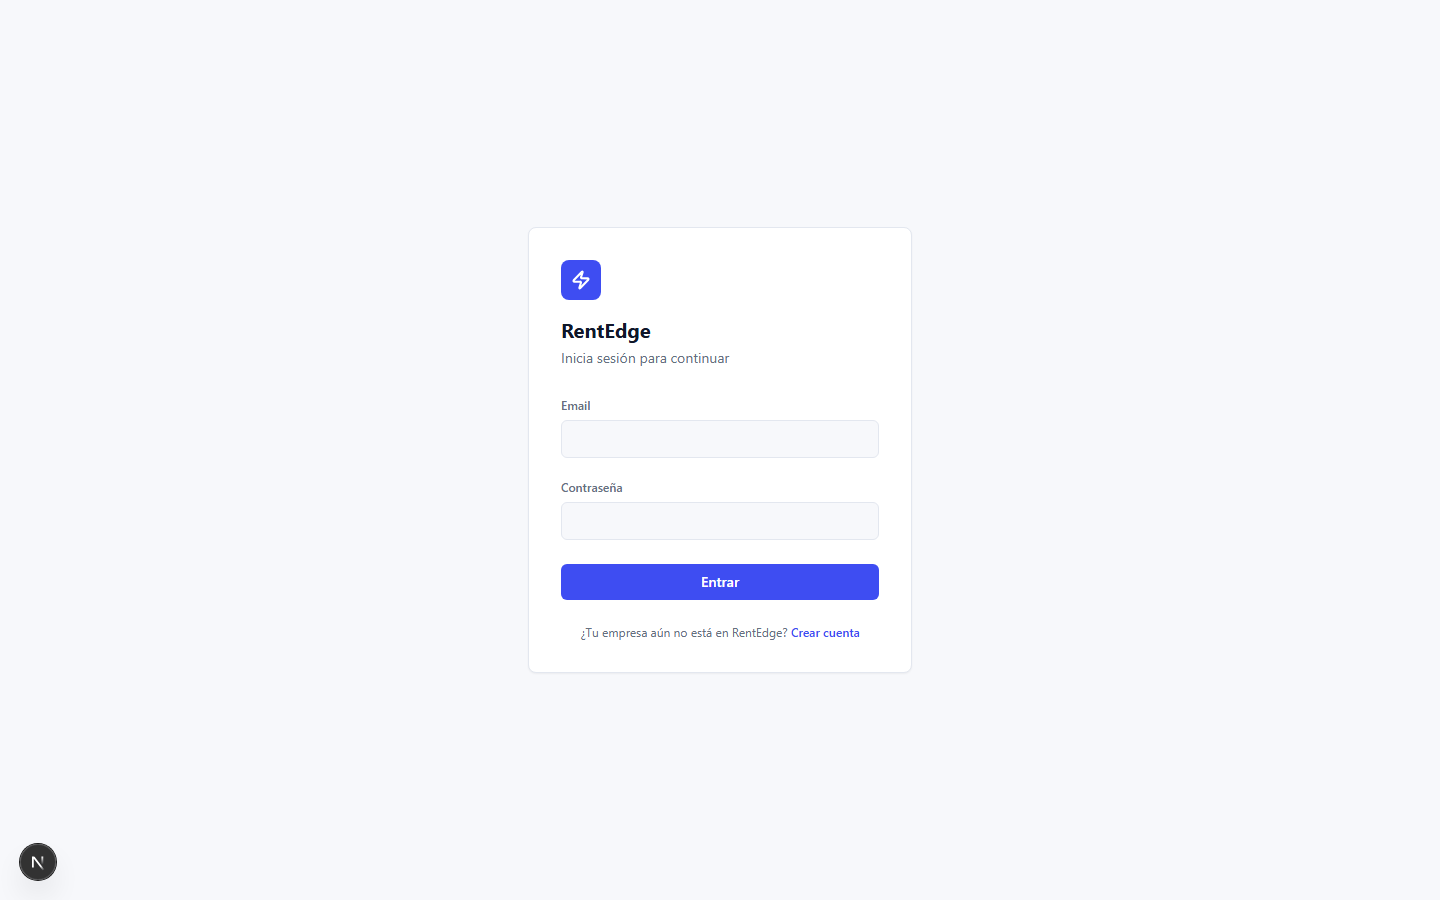
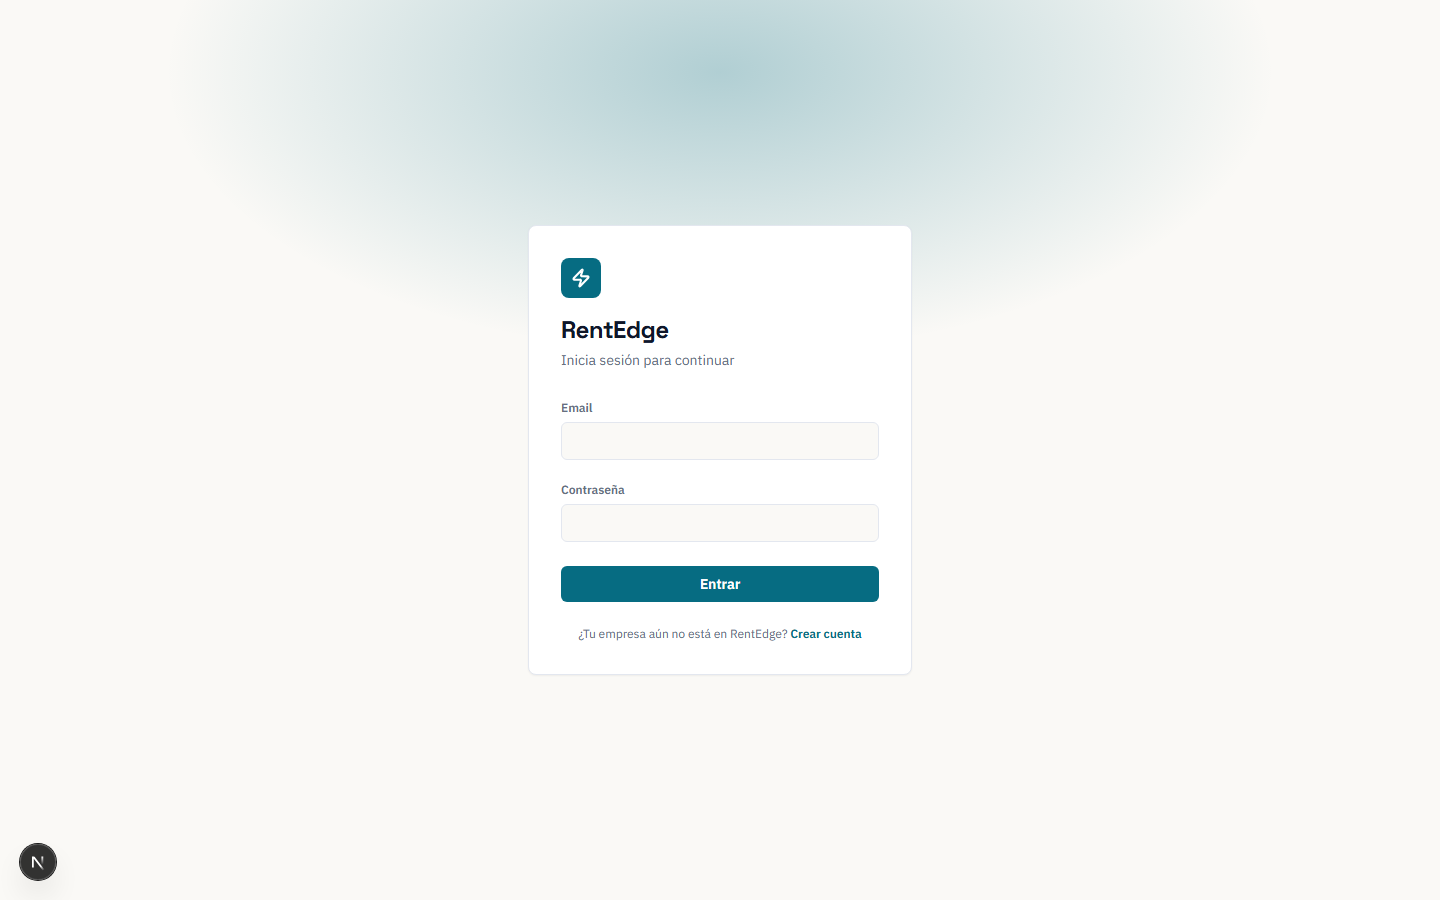
Update RentEdge entry: audit-driven correctness/security round + new visual identity
Content: real test count (1,050+), two new highlights (exact-decimal money
with row-locking against concurrent repricing races, an SSRF guard with DNS
resolution blocking cloud-metadata/private-range webhook destinations).

Screenshots: retaken against a fresh demo tenant to reflect the new teal
identity (replacing stock Tailwind indigo) that shipped across the whole
frontend this round.

diff --git a/src/content/projects.ts b/src/content/projects.ts
@@ -80,6 +80,8 @@ export const projects: Project[] = [
         "Price segmentation by length-of-stay and sales channel, no-show/overbooking risk detection, and deterministic template-based \"why this price changed\" narratives generated from stored rule facts — a $0 alternative to a paid AI pricing assistant",
         "Multi-country tax/currency support (USD/DOP/MXN) and a general activity/audit log capturing every mutating request via a single global middleware, not per-endpoint instrumentation",
         "Public OpenAPI/Swagger docs and automated nightly Postgres backups to Cloudflare R2, with the restore cycle itself verified in CI, not just the backup",
+        "Money modeled as exact decimal (not float) end-to-end, with row-level locking around every price mutation so two concurrent repricing events can never silently overwrite each other's result",
+        "An SSRF guard (with real DNS-rebinding resolution, not string matching) blocks outbound tenant webhooks from ever reaching a cloud metadata endpoint or private network range; JWT sessions carry live revocation so deactivating a user actually invalidates their existing token",
       ],
       es: [
         "Monorepo NestJS + Next.js (Turborepo) con una capa de microservicios en Python para scraping y forecasting con ML, aislada por perfil de carga",
@@ -90,10 +92,12 @@ export const projects: Project[] = [
         "Segmentación de precio por duración de estadía y canal de venta, detección de riesgo de no-show/overbooking, y narrativas deterministas basadas en plantillas (\"por qué cambió este precio\") generadas desde los mismos facts de las reglas — una alternativa a $0 frente a un asistente de IA pago",
         "Soporte multi-país de impuestos/moneda (USD/DOP/MXN) y un log de actividad/auditoría general que captura cada request mutante vía un único middleware global, no instrumentación por endpoint",
         "Documentación pública OpenAPI/Swagger y backups automáticos nocturnos de Postgres a Cloudflare R2, con el ciclo de restore verificado en CI, no solo el backup",
+        "Dinero modelado como decimal exacto (no float) de punta a punta, con locking a nivel de fila en cada mutación de precio para que dos eventos de repricing concurrentes nunca se pisen en silencio",
+        "Un guard anti-SSRF (con resolución real de DNS-rebinding, no comparación de strings) impide que un webhook de tenant llegue jamás a un endpoint de metadata de la nube o a un rango de red privada; las sesiones JWT tienen revocación real, así que desactivar un usuario invalida su token en el acto",
       ],
     },
     metrics: [
-      { label: { en: "Backend tests", es: "Tests de backend" }, value: "700+ (unit + e2e)" },
+      { label: { en: "Backend tests", es: "Tests de backend" }, value: "1,050+ (unit + e2e)" },
       { label: { en: "Services", es: "Servicios" }, value: "API + Web + 2 Python microservices" },
     ],
     links: [{ label: PRIVATE_LABEL, href: "mailto:[email redacted]?subject=RentEdge%20repo%20access", icon: "external" }],